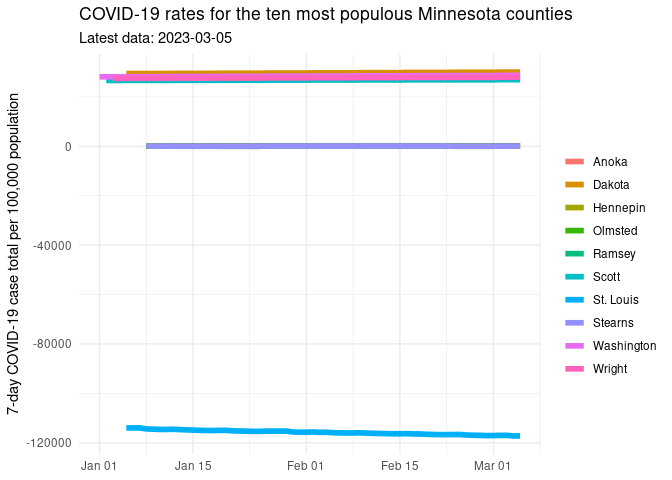
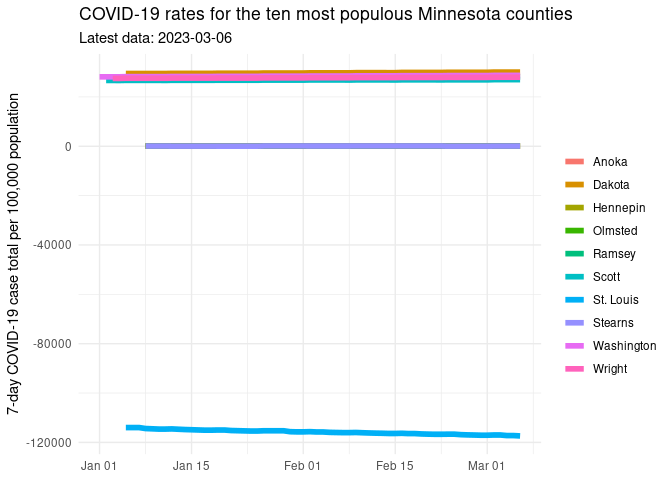
Updated report

diff --git a/README.md b/README.md
@@ -1,7 +1,7 @@
 Minnesota COVID Report
 ================
 
-Report last run: 2023-03-06 22:20:39
+Report last run: 2023-03-07 22:20:23
 
 ## Introduction
 
@@ -114,13 +114,13 @@ rate_data %>%
 | Logan      | Illinois       |   28618 |      43665 |
 | Adams      | Illinois       |   65435 |      41614 |
 | Grant      | West Virginia  |   11568 |      40716 |
-| San Juan   | New Mexico     |  123958 |      40642 |
+| San Juan   | New Mexico     |  123958 |      40668 |
 | Morton     | North Dakota   |   31364 |      39861 |
 | Mercer     | Kentucky       |   21933 |      38964 |
-| Nassau     | New York       | 1356924 |      38586 |
+| Nassau     | New York       | 1356924 |      38577 |
 | Stark      | North Dakota   |   31489 |      37886 |
 | Surry      | North Carolina |   71783 |      37884 |
-| Dorchester | South Carolina |  162809 |      37871 |
+| Dorchester | South Carolina |  162809 |      37868 |
 | Brown      | Wisconsin      |  264542 |      37793 |
 | Jackson    | Kentucky       |   13329 |      37692 |
 | Carter     | Tennessee      |   56391 |      37666 |
